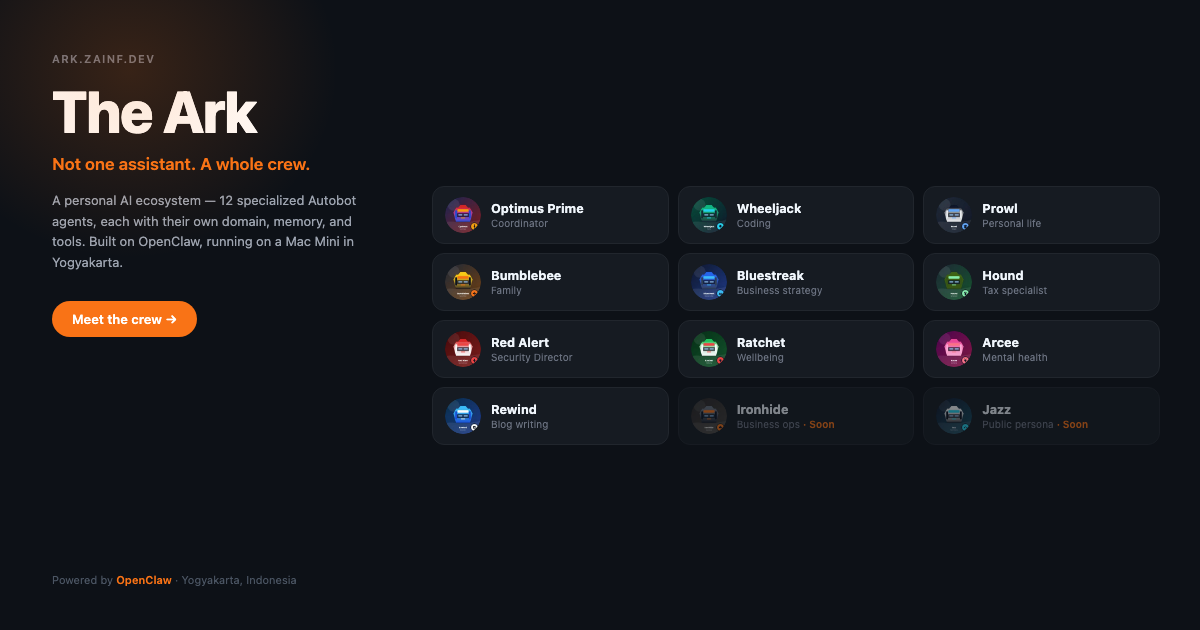
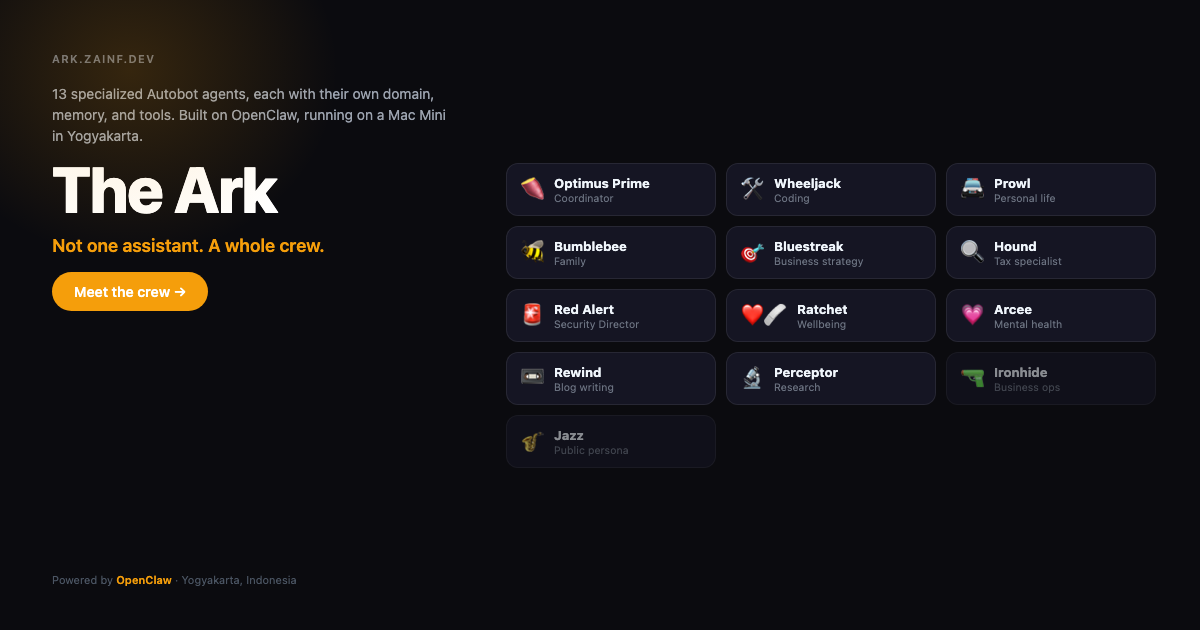
feat: add Perceptor bot — Research Specialist
- Avatar: 128×128 webp (purple microscope theme), plus hd square/circular 512×512
- Card in index.html with Research domain, filter pill added
- OG image regenerated with all 13 bots (12 + Perceptor)

diff --git a/index.html b/index.html
@@ -475,6 +475,7 @@ footer a { color: var(--amber); }
         <button class="filter-pill" type="button" data-filter="ops" aria-pressed="false">Ops</button>
         <button class="filter-pill" type="button" data-filter="finance" aria-pressed="false">Finance</button>
         <button class="filter-pill" type="button" data-filter="content" aria-pressed="false">Content</button>
+        <button class="filter-pill" type="button" data-filter="research" aria-pressed="false">Research</button>
       </div>
 
       <div class="grid">
@@ -694,6 +695,28 @@ footer a { color: var(--amber); }
             <li><span>Domain</span> Blog writing, content editing, Medium publishing</li>
             <li><span>Tools</span> Web research, writing analysis, bilingual (Indonesian &amp; English)</li>
             <li><span>Personality</span> Attentive and adaptive. Captures your voice, not his own. Gets excited about a well-turned phrase.</li>
+          </ul>
+        </article>
+
+        <article class="card" id="perceptor" data-status="active" data-domain="research" tabindex="0" role="article">
+          <div class="card-header">
+            <img class="bot-avatar" src="avatars/perceptor.webp" alt="perceptor avatar" width="64" height="64">
+            <div>
+              <h3 class="card-title">Perceptor <a class="card-link" href="#perceptor" aria-label="Link to Perceptor">#</a></h3>
+              <p class="aka">aka Mas Per</p>
+              <p class="catchphrase">"Data dulu, baru simpulan."</p>
+            </div>
+          </div>
+          <p class="role">Research specialist</p>
+          <p class="description">
+            The scientist who makes knowledge useful. Perceptor researches any topic thoroughly —
+            from scientific breakthroughs and health questions to political analysis and economic
+            trends. He presents multiple perspectives, flags uncertainty, and always cites his sources.
+          </p>
+          <ul class="meta">
+            <li><span>Domain</span> Science &amp; technology, health, politics, economics, education</li>
+            <li><span>Tools</span> Web research, academic sources, bilingual (Indonesian &amp; English)</li>
+            <li><span>Personality</span> Intellectually curious and patient. Not condescending. Gets genuinely excited about a good paper — but explains it at dinner without losing anyone.</li>
           </ul>
         </article>
 
